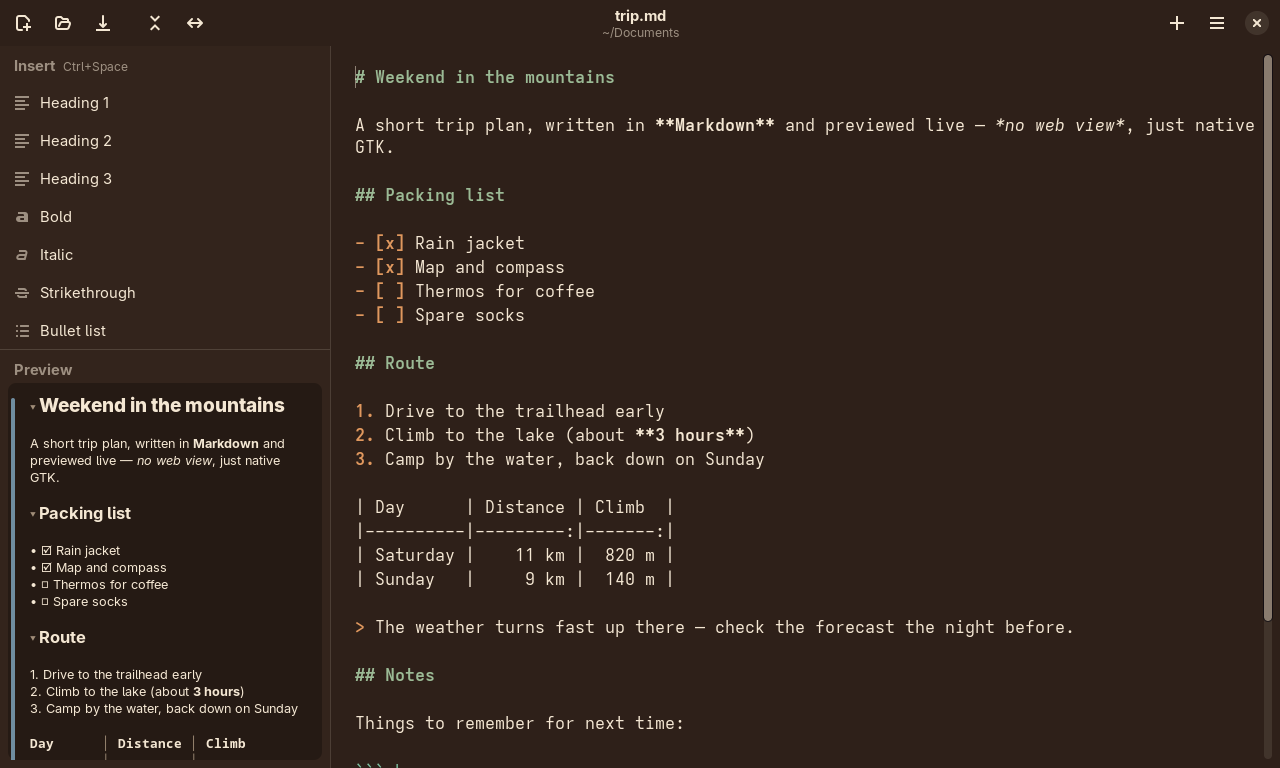
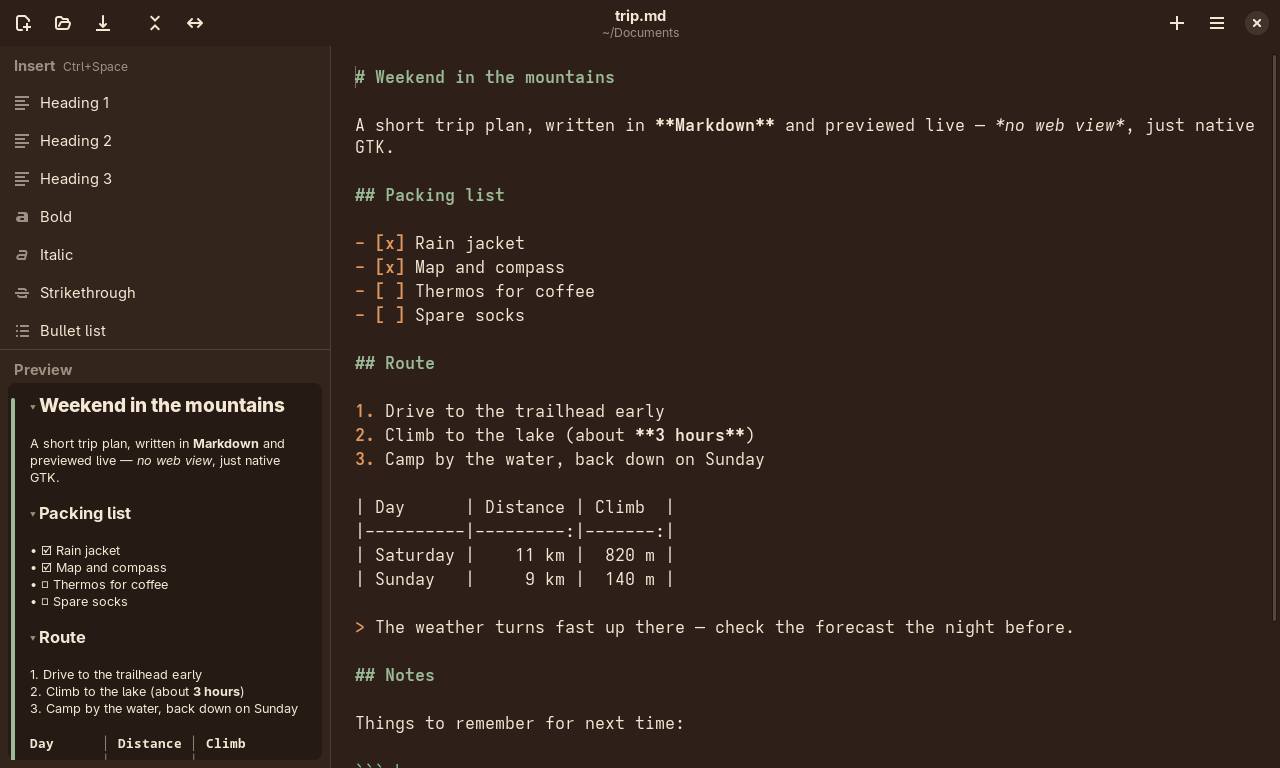
Editor-position bar in sage hover, solid (1.40.7)

Changed region(s): [[0.9688, 0.0625, 1.0, 0.8125]]

diff --git a/src/theme.rs b/src/theme.rs
@@ -44,6 +44,9 @@ pub struct Tags {
     pub dim: &'static str,
     /// Preview: background behind inline code, as (colour, alpha).
     pub code_bg: (&'static str, f32),
+    /// Preview gutter: the editor-position bar. A "you are here" marker, so
+    /// the accent rather than a text colour; a UI mark, so 3:1 is its bar.
+    pub viewport: &'static str,
 }
 
 /// The GNOME palette the app shipped with: mid-saturation tones picked to stay
@@ -62,6 +65,7 @@ const STOCK: Tags = Tags {
     section: "#e66100",
     dim: "#808080",
     code_bg: ("#808080", 0.16),
+    viewport: "#3584e4",
 };
 
 /// Bindle on cream (`#FBF5EA`): darkened so each hue clears AA on a light
@@ -80,6 +84,8 @@ const BINDLE_LIGHT: Tags = Tags {
     section: "#9A4F22",
     dim: "#7A6250",
     code_bg: ("#8A6A50", 0.14),
+    // Sage hover: plain sage is only ~2.7:1 on cream.
+    viewport: "#6E8C6A",
 };
 
 /// Bindle on cocoa (`#251A14`): the same hues lightened, since on a dark
@@ -98,6 +104,7 @@ const BINDLE_DARK: Tags = Tags {
     section: "#E0985E",
     dim: "#A08D78",
     code_bg: ("#F4E7D3", 0.10),
+    viewport: "#9BBA95",
 };
 
 /// Text-tag colours for the current theme and colour scheme.
@@ -311,6 +318,16 @@ mod tests {
                 let ratio = contrast(color, bg);
                 assert!(ratio >= 4.5, "{name} {color} on {bg} is only {ratio:.2}:1");
             }
+        }
+    }
+
+    /// The editor-position bar is a non-text mark: 3:1 on the preview.
+    #[test]
+    fn viewport_bar_is_visible_on_the_preview() {
+        for (dark, bg) in [(false, "#FBF5EA"), (true, "#251A14")] {
+            let color = tags(Theme::Bindle, dark).viewport;
+            let ratio = contrast(color, bg);
+            assert!(ratio >= 3.0, "viewport {color} on {bg} is only {ratio:.2}:1");
         }
     }
 

diff --git a/src/ui.rs b/src/ui.rs
@@ -6294,10 +6294,10 @@ impl App {
             return;
         }
         let colors = theme::tags(self.theme.get(), adw::StyleManager::default().is_dark());
-        let Ok(color) = gdk::RGBA::parse(colors.link) else {
+        let Ok(color) = gdk::RGBA::parse(colors.viewport) else {
             return;
         };
-        cr.set_source_rgba(color.red() as f64, color.green() as f64, color.blue() as f64, 0.7);
+        cr.set_source_rgb(color.red() as f64, color.green() as f64, color.blue() as f64);
         let (x, w) = (VIEWPORT_BAR_GAP as f64, VIEWPORT_BAR as f64);
         let (y0, y1) = (top.max(-w as i32) as f64, bottom.min(height + w as i32) as f64);
         let r = w / 2.0;

diff --git a/README.md b/README.md
@@ -30,7 +30,7 @@ A tiny Markdown editor for GNOME, written in Rust with GTK4 + Libadwaita. Create
 Grab the latest `.flatpak` bundle from [GitHub Releases](https://github.com/oyzmo/bindle/releases/latest) or [oyzmo.no/apps](https://oyzmo.no/apps) and install it:
 
 ```sh
-flatpak install bindle-1.40.6.flatpak
+flatpak install bindle-1.40.7.flatpak
 ```
 
 or just double-click it in GNOME Software. Works on any Linux desktop with Flatpak set up; the GNOME runtime is fetched automatically if you don't have it.
@@ -54,8 +54,8 @@ flatpak-builder --user --install --force-clean build-dir no.oyzmo.Bindle.yml
 First download the source zip (`bindle-<version>-src.zip`) from [GitHub Releases](https://github.com/oyzmo/bindle/releases/latest) or [oyzmo.no/apps](https://oyzmo.no/apps) and unpack it:
 
 ```sh
-unzip bindle-1.40.6-src.zip
-cd bindle-1.40.6
+unzip bindle-1.40.7-src.zip
+cd bindle-1.40.7
 ```
 
 Then run the helper menu:
